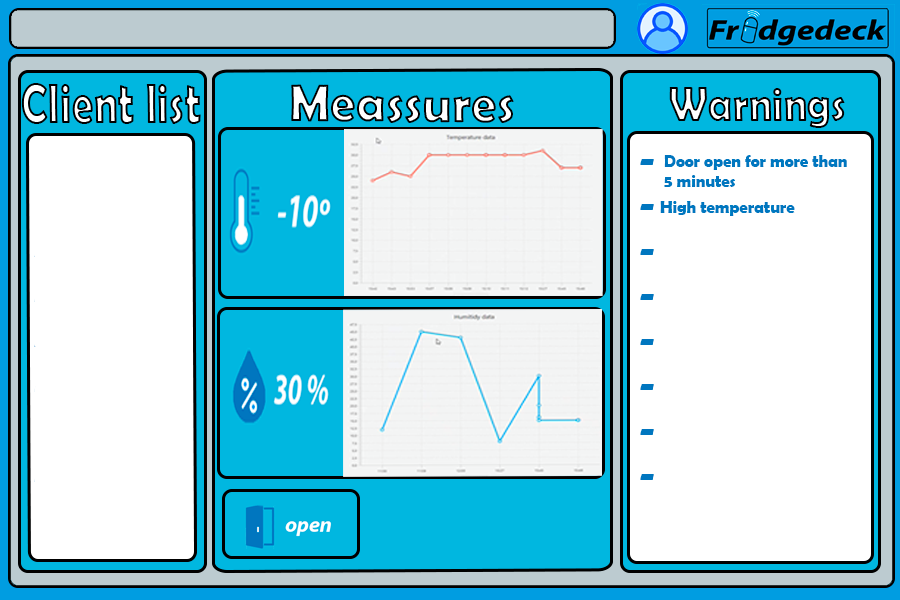
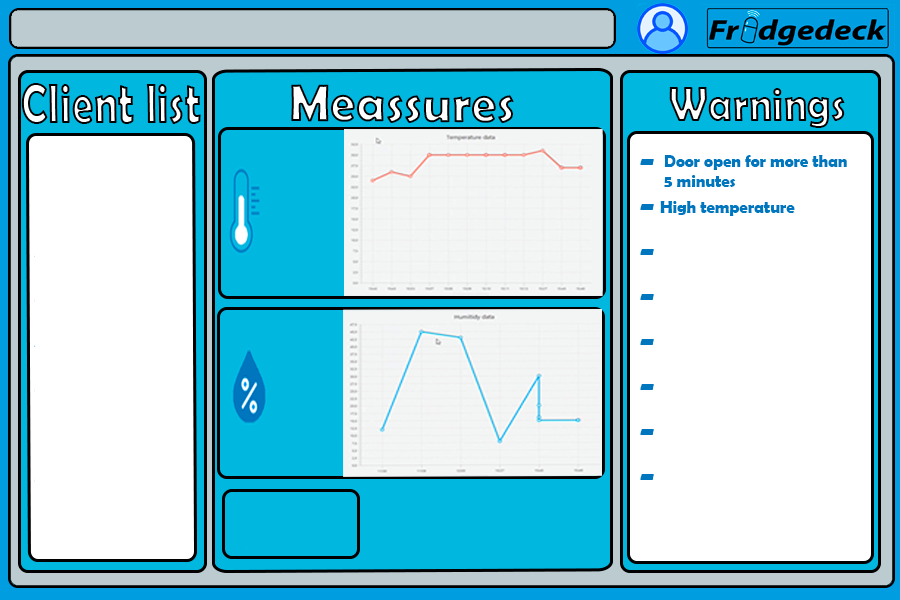
Tecnico update
Clickable listview with all information from user

Changed region(s): [[0.2489, 0.84, 0.3733, 0.93], [0.3111, 0.63, 0.3733, 0.69], [0.3111, 0.33, 0.3733, 0.39]]

diff --git a/src/control/controladorVentanaTecnico.java b/src/control/controladorVentanaTecnico.java
@@ -4,12 +4,14 @@ import java.io.IOException;
 import java.io.Reader;
 import java.nio.file.Files;
 import java.nio.file.Paths;
+import java.sql.Date;
 import java.text.DateFormat;
 import java.text.SimpleDateFormat;
 import java.util.Calendar;
 import java.util.Locale;
 import java.util.Timer;
 import java.util.TimerTask;
+import java.util.Vector;
 
 import com.google.gson.Gson;
 import com.google.gson.GsonBuilder;
@@ -24,6 +26,7 @@ import javafx.scene.Scene;
 import javafx.scene.control.Button;
 import javafx.scene.control.Label;
 import javafx.scene.control.ListView;
+import javafx.scene.image.ImageView;
 import javafx.stage.Modality;
 import javafx.stage.Stage;
 import model.FridgeDate;
@@ -33,8 +36,17 @@ import model.Usuario;
 public class controladorVentanaTecnico {
 	public static final Stage stage  = new Stage();
 	@FXML
+    private ImageView imgDoorOpen;
+	@FXML
+    private ImageView imgDoorClose;
+	@FXML
 	private Label lblTimeTecnico;
-	
+	@FXML
+	private Label lblEstado;
+	@FXML
+	private Label lblHum;
+	@FXML
+	private Label lblTemp;
 	@FXML
     private ListView listaUsuarios;
 	@FXML
@@ -86,7 +98,10 @@ public class controladorVentanaTecnico {
 					}
 		    }
 		};
-		timer.scheduleAtFixedRate(task, 1000, 1000);
+		timer.scheduleAtFixedRate(task, 1000, 1000);	
+		
+		imgDoorOpen.setVisible(false);
+		imgDoorClose.setVisible(false);
 		
 		leer_datos();
 	}
@@ -104,6 +119,42 @@ public class controladorVentanaTecnico {
 				}
 			}
 			reader.close();
+		} catch (IOException e1) {
+			// TODO Auto-generated catch block
+			e1.printStackTrace();
+		}
+	}
+	public void selectUser() {
+		lblEstado.setText("");
+		imgDoorOpen.setVisible(false);
+		imgDoorClose.setVisible(false);
+		int id = -1;
+		Vector<Usuario> us = new Vector<Usuario>();
+		int selectedId = listaUsuarios.getSelectionModel().getSelectedIndex();
+		System.out.println(selectedId);
+		Gson gson = new GsonBuilder().setPrettyPrinting().create();
+		try {
+			Reader reader = Files.newBufferedReader(Paths.get("userbase.json"));
+			Reader readerFridgedate = Files.newBufferedReader(Paths.get("fridgedate.json"));
+			Usuario[] users = new Gson().fromJson(reader, Usuario[].class);
+			FridgeDate[] fd = new Gson().fromJson(readerFridgedate, FridgeDate[].class);
+			for(int i=0; i<users.length; i++) {
+				if(users[i].tipo.equals("user")) {
+					us.add(users[i]);
+				}
+			}
+			id = us.get(selectedId).id;
+			if(fd[id].estado.equals("abierta")) {
+				imgDoorOpen.setVisible(true);
+				lblEstado.setText("open");
+			}else {
+				imgDoorClose.setVisible(true);
+				lblEstado.setText("close");
+			}
+			lblTemp.setText(fd[id].temperatura + "C");
+			lblHum.setText(fd[id].humedad + "%");
+			reader.close();
+			readerFridgedate.close();
 		} catch (IOException e1) {
 			// TODO Auto-generated catch block
 			e1.printStackTrace();

diff --git a/src/control/controladorVentanaRepartidor.java b/src/control/controladorVentanaRepartidor.java
@@ -1,11 +1,18 @@
 package control;
 
+import java.io.IOException;
+import java.io.Reader;
+import java.nio.file.Files;
+import java.nio.file.Paths;
 import java.text.DateFormat;
 import java.text.SimpleDateFormat;
 import java.util.Calendar;
 import java.util.Locale;
 import java.util.Timer;
 import java.util.TimerTask;
+
+import com.google.gson.Gson;
+import com.google.gson.GsonBuilder;
 
 import javafx.application.Platform;
 import javafx.event.ActionEvent;
@@ -16,16 +23,23 @@ import javafx.scene.Parent;
 import javafx.scene.Scene;
 import javafx.scene.control.Button;
 import javafx.scene.control.Label;
+import javafx.scene.control.ListView;
 import javafx.stage.Modality;
 import javafx.stage.Stage;
+import model.FridgeDate;
+import model.ListaCompras;
+import model.ListaProductos;
+import model.Usuario;
 
 public class controladorVentanaRepartidor {
 	public static final Stage stage  = new Stage();
 	@FXML
+    private ListView lwCL;
+	@FXML
 	private Button bttnInfoRepartidor;
 	@FXML
 	private Label lblTimeRepatridor;
-	 @FXML
+	@FXML
 	    void mostrarInfoRepartidor(ActionEvent event) {
 			 try {
 				 FXMLLoader loader2 = new FXMLLoader(getClass().getResource("/view/ventana_Informacion_usuario.fxml"));
@@ -76,7 +90,21 @@ public class controladorVentanaRepartidor {
 	}
 
 	private void leer_datos() {
-		// TODO Auto-generated method stub
-		
+		Gson gson = new GsonBuilder().setPrettyPrinting().create();
+		try {
+			Reader reader = Files.newBufferedReader(Paths.get("userbase.json"));
+			//Reader readerListaCompras = Files.newBufferedReader(Paths.get("listas_compras.json"));
+			Usuario[] users = new Gson().fromJson(reader, Usuario[].class);
+			
+			for(int i=0; i<users.length; i++) {
+				if(users[i].tipo.equals("user")) {
+					lwCL.getItems().add("- " + users[i].name_surname);
+				}
+			}
+			reader.close();
+		} catch (IOException e1) {
+			// TODO Auto-generated catch block
+			e1.printStackTrace();
+		}
 	}
 }
